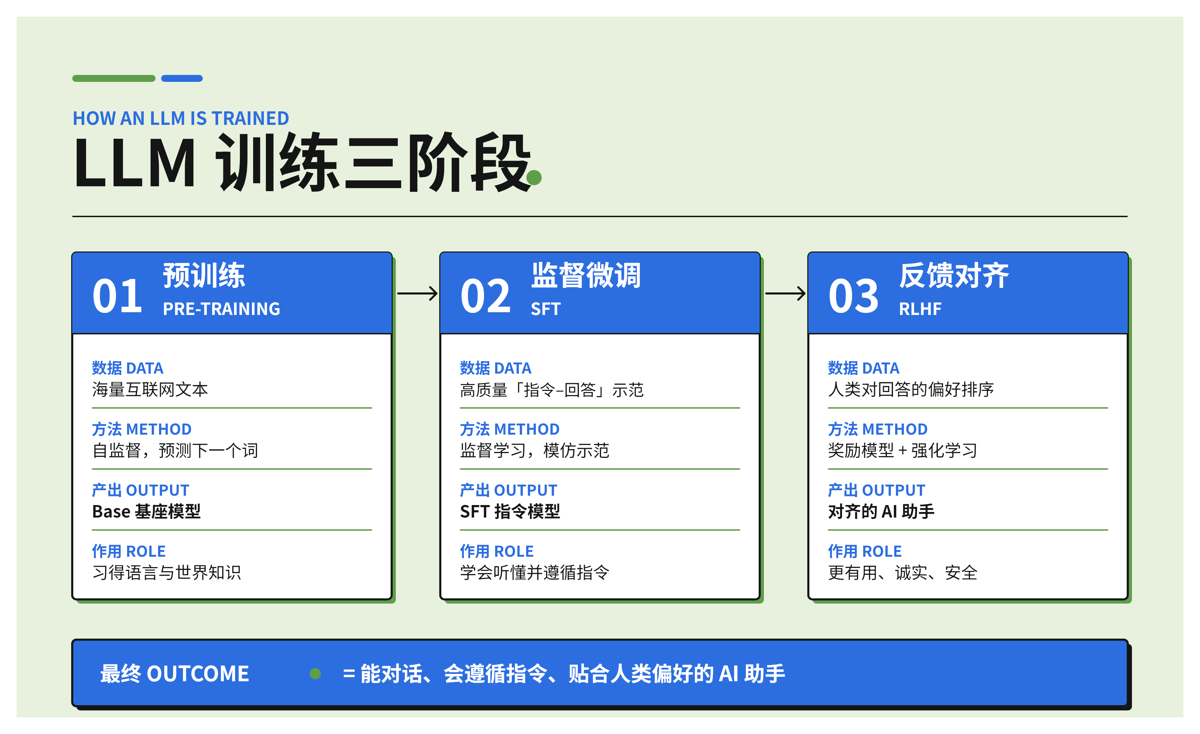
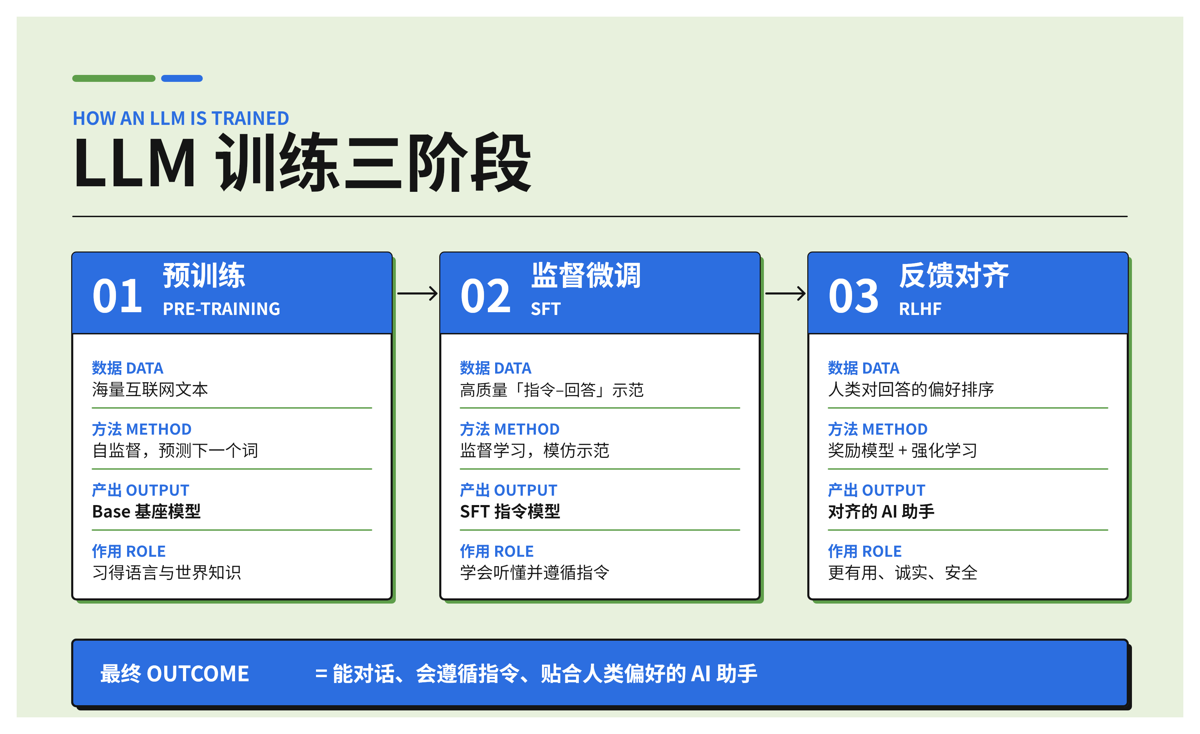
Checker Bloom: drop the stray dots; declutter Confetti Wedge; flip Court Press to a cream page
- Checker Bloom: remove the two small green dots (title + outcome bar); refresh thumbnail and doc board.
- Confetti Wedge: remove the oversized decorative blocks/circles, keep small sparse confetti; update design.md to keep decoration small and content-first.
- Court Press: flip to a warm off-white page with green + pink as accents (was a green field); update design.md roles.

Changed region(s): [[0.2467, 0.8992, 0.6475, 0.9292], [0.4317, 0.2398, 0.4625, 0.2698]]

diff --git a/templates/confetti-wedge/design.md b/templates/confetti-wedge/design.md
@@ -3,48 +3,53 @@ version: 1.0
 name: Confetti Wedge
 renderer: feishu-svg-whiteboard
 description: >
-  A bright, playful brand-deck system — a cool near-white page punctuated with big flat pastel color blocks (candy pink, mint green, aqua teal) that bleed off the edges as rectangles and circles, framing a heavy black rounded-sans headline. No borders, no shadows: depth and energy come purely from oversized flat color blocks, generous air, and a huge weight jump between the black display word and the soft charcoal body. Best for upbeat brand explainers, value/personality showcases, kickoff title scenes, and light playful concept maps.
+  A bright, playful brand-deck system: a cool near-white page, content-first, with a few small flat
+  pastel confetti accents (candy pink, mint green, aqua teal) tucked into the margins, and a heavy
+  black rounded-sans headline doing the talking. No borders, no shadows: energy comes from a big
+  display-vs-body weight jump, generous air, and small cheerful colour accents — never huge blocks
+  that crowd the content. Best for upbeat brand explainers, kickoff title scenes, and light concept maps.
 
 # ── COLOR ────────────────────────────────────────────────────
 colors:
   page:    "#F4F8FB"   # canvas — cool airy near-white with a faint blue cast
   ink:     "#000000"   # ink / structure — pure black, used for the heavy display word
   charcoal: "#3A3C3E"   # secondary ink — soft charcoal for body copy
-  pink:    "#F8BED4"   # accent-1 — candy/blossom pink block
-  mint:    "#62C0A5"   # accent-2 — fresh mint-green block & big numerals
-  aqua:    "#65C8CD"   # accent-3 — aqua-teal block
-  # Rule: 2–3 pastel accents per scene (each its own block/circle); they may all appear loudly since
-  # the palette is deliberately festive — but keep them as separate flat shapes, never overlapping.
-  # Dark text on the page or on light cards; on a pastel block use only LARGE black display words.
+  pink:    "#F8BED4"   # accent-1 — candy/blossom pink
+  mint:    "#62C0A5"   # accent-2 — fresh mint-green, also big numerals / header bands
+  aqua:    "#65C8CD"   # accent-3 — aqua-teal
+  # Rule: 2–3 pastel accents per scene. Keep decorative confetti SMALL and SPARSE (a few ~16–40px
+  # dots/wedges in the OUTER MARGINS only) — never large blocks or circles that bleed across or
+  # overlap the content. The accents can also be the stage header bands. Content first, decoration last.
 
 # ── DEPTH ────────────────────────────────────────────────────
-# FLAT system — no shadows of any kind. Depth = big flat color blocks bleeding off-canvas,
-# generous negative space, panel role-swaps, and a large display-vs-body scale jump.
+# FLAT system — no shadows of any kind. Depth = the big display-vs-body scale jump, generous
+# negative space, panel role-swaps, and a few small flat colour accents. Not oversized blocks.
 
 # ── STROKE & CORNERS ─────────────────────────────────────────
 stroke:
-  structural: "0 (no outlines — blocks & cards are flat color silhouettes)"
+  structural: "0 (no outlines — cards & accents are flat color silhouettes)"
   rule:       "3px solid #3A3C3E"   # only when an explicit divider is truly needed
-  radius: 24   # cards are softly rounded; color blocks may be sharp rects or full circles
+  radius: 24   # cards are softly rounded; small accents may be sharp wedges or dots
 ---
 
 # Confetti Wedge — Feishu SVG Whiteboard Design System
 
-A festive title-deck look: a cool near-white page punctuated with big flat pastel rectangles and
-circles that slip off the edges, with one heavy black rounded headline doing the talking — no
-outlines, no shadows, pure color-block joy.
+A festive but tidy title-deck look: a cool near-white page with one heavy black rounded headline
+doing the talking, the content (cards, rows) front and centre, and just a few small pastel confetti
+accents sprinkled in the margins for cheer. No outlines, no shadows. The joy comes from colour and a
+big weight jump, not from oversized blocks.
 
 ## Color
-Three pastel accents on one cool canvas. **Page `#F4F8FB`** is an airy near-white with a faint
-blue cast — the breathing room the whole system depends on. The three accents —
-**pink `#F8BED4`**, **mint `#62C0A5`**, **aqua `#65C8CD`** — are the personality: flat rectangles
-and circles that bleed off the corners and edges. They read as cheerful, saturated-but-soft
-pastels; deploy 2–3 per scene (festive is the point), but keep each as its own clean flat shape —
-never overlap two pastels or mix them muddy. **Ink `#000000`** carries the heavy display word;
-**charcoal `#3A3C3E`** carries body copy (a touch softer than pure black so the headline still wins).
-Dark text on the page or on light cards. On a pastel block place ONLY a large black display word —
-never small dark labels, since dark-on-pastel low-contrast text reads as noise. To make a block
-"lighter," pick a lighter solid hex — never opacity.
+Three pastel accents on one cool canvas. **Page `#F4F8FB`** is an airy near-white with a faint blue
+cast: the breathing room the whole system depends on. The three accents, **pink `#F8BED4`**,
+**mint `#62C0A5`**, **aqua `#65C8CD`**, are the personality. Use them for the stage header bands and
+for a few SMALL confetti accents (little dots or wedges, roughly 16 to 40px) tucked into the outer
+margins. Keep decoration small and sparse: never let a big block or circle bleed across the canvas or
+overlap the content, which reads as busy and distracting. Deploy 2 to 3 accents per scene, each its
+own clean flat shape, never overlapping or muddy. **Ink `#000000`** carries the heavy display word;
+**charcoal `#3A3C3E`** carries body copy. Dark text on the page or on light cards. On a pastel block
+place ONLY a large black display word, never small dark labels. To make a colour lighter, pick a
+lighter solid hex, never opacity.
 
 ## Rules
 

diff --git a/templates/court-press/design.md b/templates/court-press/design.md
@@ -3,46 +3,55 @@ version: 1.0
 name: Court Press
 renderer: feishu-svg-whiteboard
 description: >
-  A flat sports-poster system on a grass-green field. Off-white "court lines" divide the canvas, dusty-pink circles read as balls, and deep-forest type carries every label. The mood is editorial-athletic — minimal, confident, a pink-on-green complementary clash. No borders-heavy brutalism and NO shadows: depth comes from flat color blocks, chalk rules, and scale. Built for explainers, processes, and playful step-by-step boards.
+  A flat sports-poster system on a warm off-white page, with grass green and dusty pink as the two
+  accents. Green carries the header bands, number balls, headings, and the closing banner; pink is the
+  punch (balls, dividers, badges); deep-forest type does the talking on the cream. The mood is
+  editorial-athletic, a pink-and-green complementary clash on a clean page. No shadows: depth comes
+  from flat colour blocks, chalk-line rules, and scale. Built for explainers, processes, and playful
+  step-by-step boards.
 
 # ── COLOR ────────────────────────────────────────────────────
 colors:
-  court:   "#66914C"   # grass-green — the canvas / field
-  court-2: "#5A8043"   # one step deeper green — recessed panels
-  forest:  "#2F4224"   # deep green-black — lines, borders, ALL body & label text
-  pink:    "#DA9EB7"   # dusty pink — the punch accent: balls, fills, the closing banner
-  chalk:   "#F2EFE6"   # warm off-white — court lines, cards/panels, LARGE display text on green
-  # Two accents in play (pink + chalk) over the green field. Pink-on-green is the signature clash.
+  chalk:  "#F2EFE6"   # warm off-white — the page canvas, and large display text on a green fill
+  green:  "#66914C"   # grass green — PRIMARY accent: header bands, number balls, headings, closing banner
+  pink:   "#DA9EB7"   # dusty pink — SECONDARY accent: balls, divider rules, badges
+  forest: "#2F4224"   # deep green-black — body & label text on the cream page and white panels
+  white:  "#FFFFFF"   # content panels on the cream page (give them a thin green border so they read)
+  # Cream page + two accents (green leads, pink punches). Pink-against-green is the signature clash.
 
-# ── TEXT COLOR (critical on a colored canvas) ────────────────
+# ── TEXT COLOR (critical for contrast) ───────────────────────
 text-rules:
-  on-green:  "Use FOREST (dark) for any size — always reliable. CHALK only for LARGE, bold display (≥ ~28px). Never small chalk text on green."
-  on-chalk:  "FOREST text — always crisp."
+  on-cream:  "FOREST for body, GREEN for headings — both dark, always readable on the off-white page."
+  on-white:  "FOREST body, GREEN headings — always crisp."
+  on-green:  "CHALK / white for LARGE bold display (≥ ~28px). Never small chalk text on green."
   on-pink:   "FOREST text — always crisp."
 
 # ── DEPTH ────────────────────────────────────────────────────
-# FLAT system — NO shadows of any kind. Depth = flat color blocks, chalk court-lines, and scale.
+# FLAT system — NO shadows of any kind. Depth = flat colour blocks, chalk-line rules, and scale.
 
 # ── STROKE & CORNERS ─────────────────────────────────────────
 stroke:
-  border: "3px solid forest"   # cards, banners (used sparingly — this style is light on borders)
-  line:   "3px solid chalk"    # the signature court-line divider on the green field
+  border: "2px solid green"    # thin border on white panels so they read on the cream page
+  line:   "3px solid pink or green"  # divider rules / court-line motif
   radius: 0                    # squared cards; circles (balls) are the curved motif
 ---
 
 # Court Press — Feishu SVG Whiteboard Design System
 
-A flat sports poster you can read at a glance. A grass-green field, off-white court lines
-dividing it, dusty-pink balls as the recurring motif, and deep-forest type doing the talking.
-Minimal and athletic — never heavy, never shadowed.
+A flat sports poster you can read at a glance. A warm off-white page, white panels with thin green
+borders, dusty-pink balls as the recurring motif, and grass-green header bands and number balls
+carrying the energy. Deep-forest type does the talking on the cream. Minimal and athletic, a
+pink-and-green clash on a clean page, never heavy, never shadowed.
 
 ## Color
 
-The **green field** (`#66914C`) is the canvas. **Forest** (`#2F4224`) is the structural ink —
-every line, border, and body label. **Chalk** (`#F2EFE6`) draws the court lines, fills the cards,
-and is the only color allowed for *large* display text on the green. **Pink** (`#DA9EB7`) is the
-punch: balls, accent fills, and the closing banner. Pink against green is the whole identity —
-let it clash. Use a deeper green (`#5A8043`) only to recess a panel.
+The **cream page** (`#F2EFE6`) is the canvas. **Green** (`#66914C`) is the primary accent: stage
+header bands, the number balls, headings, and the closing banner. **Pink** (`#DA9EB7`) is the punch:
+balls, divider rules, and badges. **Forest** (`#2F4224`) is the ink for body and labels on the cream
+page and on white panels. **White** (`#FFFFFF`) fills the content panels, with a thin green border so
+they read on the cream. Pink against green is the whole identity, on a clean cream ground. Large
+display text on a green fill uses chalk/white; everywhere on cream and white, text is dark
+(forest body, green headings) so nothing is light-on-light.
 
 ## Rules
 